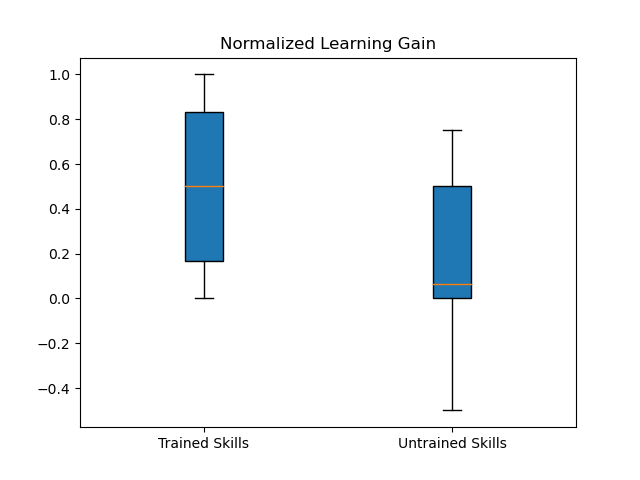
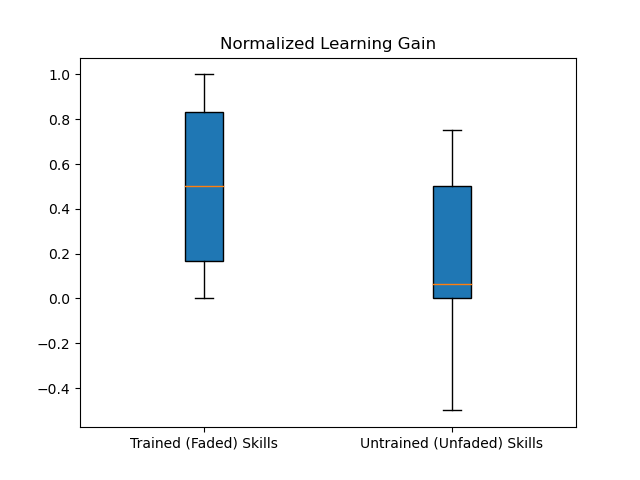
Changed labels of the diagram

Changed region(s): [[0.5625, 0.9062, 0.8438, 0.9375], [0.1875, 0.9062, 0.4375, 0.9375]]

diff --git a/pre_study.py b/pre_study.py
@@ -6,6 +6,7 @@ from util import calculate_cohends_d, render_boxplot, perform_test, plot_pre_pos
 # Exercise 3 : it-network-plan-vlan
 # Exercise 4 : it-network-plan-ipv4-static-routing
 
+
 # Users 1,3,5,7,9,11,13 it-network-plan-ipv4-static-routing
 # Users 2,4,6,8,10,12 it-network-plan-vlan
 def extract_entries(df: pd.DataFrame, was_trained: bool):
@@ -16,20 +17,32 @@ def extract_entries(df: pd.DataFrame, was_trained: bool):
 
     return eq[eq["User"].notna()]
 
+
 def prepare_data():
     data = pd.read_csv("preprocessed/pre_preprocessed.csv")
 
     for student in data["User"].unique():
         # Assuming student is defined
-        df = data.loc[data["User"] == student][["ExerciseSkill","PretestCorrectRel","PosttestCorrectRel"]].groupby("ExerciseSkill").mean()
+        df = (
+            data.loc[data["User"] == student][
+                ["ExerciseSkill", "PretestCorrectRel", "PosttestCorrectRel"]
+            ]
+            .groupby("ExerciseSkill")
+            .mean()
+        )
         df.reset_index(inplace=True)
 
-        plot_pre_post(df=df, filename=f"pre/barplots/scores_{int(student)}", title=f'Scores for User: {int(student)}')
+        plot_pre_post(
+            df=df,
+            filename=f"pre/barplots/scores_{int(student)}",
+            title=f"Scores for User: {int(student)}",
+        )
 
     trained = extract_entries(df=data, was_trained=True)
     not_trained = extract_entries(df=data, was_trained=False)
 
     return trained, not_trained
+
 
 def test_improvement_abs_skill(trained, untrained, is_graph_norm, norm_val=0.05):
     """
@@ -37,19 +50,33 @@ def test_improvement_abs_skill(trained, untrained, is_graph_norm, norm_val=0.05)
     The is_graph_norm is an indicator, if both distributions within the improvement_abs_skills.png file are a normal distribution.
     This decides the statistical test used for evaluation.
     """
-    trained_improvements = trained.groupby(["User", "ExerciseSkill"]).mean()["ImprovementAbsNormalizedScores"].to_numpy()
-    untrained_improvements = untrained.groupby(["User", "ExerciseSkill"]).mean()["ImprovementAbsNormalizedScores"].to_numpy()
+    trained_improvements = (
+        trained.groupby(["User", "ExerciseSkill"])
+        .mean()["ImprovementAbsNormalizedScores"]
+        .to_numpy()
+    )
+    untrained_improvements = (
+        untrained.groupby(["User", "ExerciseSkill"])
+        .mean()["ImprovementAbsNormalizedScores"]
+        .to_numpy()
+    )
 
     t_test_result = perform_test(
         is_related=True,
         a=trained_improvements,
         b=untrained_improvements,
-        a_name="Trained",b_name="Untrained", x_label="Score",
+        a_name="Trained",
+        b_name="Untrained",
+        x_label="Score",
         filename=f"pre/histograms/improvement_abs_skills",
-        is_graph_norm=is_graph_norm, norm_val=norm_val
+        is_graph_norm=is_graph_norm,
+        norm_val=norm_val,
     )
 
-    return t_test_result, calculate_cohends_d(trained_improvements, untrained_improvements)
+    return t_test_result, calculate_cohends_d(
+        trained_improvements, untrained_improvements
+    )
+
 
 def test_improvement_abs_exercise(trained, untrained, is_graph_norm, norm_val=0.05):
     """
@@ -64,14 +91,22 @@ def test_improvement_abs_exercise(trained, untrained, is_graph_norm, norm_val=0.
         is_related=True,
         a=trained_improvements,
         b=untrained_improvements,
-        a_name="Trained",b_name="Untrained", x_label="Score",
+        a_name="Trained",
+        b_name="Untrained",
+        x_label="Score",
         filename=f"pre/histograms/improvement_abs_exercises",
-        is_graph_norm=is_graph_norm, norm_val=norm_val
+        is_graph_norm=is_graph_norm,
+        norm_val=norm_val,
     )
 
-    return t_test_result, calculate_cohends_d(trained_improvements, untrained_improvements)
+    return t_test_result, calculate_cohends_d(
+        trained_improvements, untrained_improvements
+    )
 
-def test_improvement_normalized_change_skill(trained, untrained, is_graph_norm, norm_val=0.05):
+
+def test_improvement_normalized_change_skill(
+    trained, untrained, is_graph_norm, norm_val=0.05
+):
     """
     Function to calculate if, and how significant the learning improvement for the trained **skills** in terms of normalized change was, relative to the untrained skills.
     The is_graph_norm is an indicator, if both distributions within the improvement_normalized_change_skills.png file are a normal distribution.
@@ -87,14 +122,22 @@ def test_improvement_normalized_change_skill(trained, untrained, is_graph_norm, 
         is_related=True,
         a=trained_improvements,
         b=untrained_improvements,
-        a_name="Trained",b_name="Untrained", x_label="Score",
+        a_name="Trained",
+        b_name="Untrained",
+        x_label="Score",
         filename=f"pre/histograms/improvement_normalized_change_skills",
-        is_graph_norm=is_graph_norm, norm_val=norm_val
+        is_graph_norm=is_graph_norm,
+        norm_val=norm_val,
     )
 
-    return t_test_result, calculate_cohends_d(trained_improvements, untrained_improvements)
+    return t_test_result, calculate_cohends_d(
+        trained_improvements, untrained_improvements
+    )
 
-def test_improvement_normalized_change_exercise(trained, untrained, is_graph_norm, norm_val=0.05):
+
+def test_improvement_normalized_change_exercise(
+    trained, untrained, is_graph_norm, norm_val=0.05
+):
     """
     Function to calculate if, and how significant the learning improvement for the trained **exercises** in terms of normalized change was, relative to the untrained exercises.
     The is_graph_norm is an indicator, if both distributions within the improvement_normalized_change_exercises.png file are a normal distribution.
@@ -107,32 +150,71 @@ def test_improvement_normalized_change_exercise(trained, untrained, is_graph_nor
         is_related=True,
         a=trained_improvements,
         b=untrained_improvements,
-        a_name="Trained",b_name="Untrained", x_label="Score",
+        a_name="Trained",
+        b_name="Untrained",
+        x_label="Score",
         filename=f"pre/histograms/improvement_normalized_change_exercises",
-        is_graph_norm=is_graph_norm, norm_val=norm_val
+        is_graph_norm=is_graph_norm,
+        norm_val=norm_val,
     )
 
-    return t_test_result, calculate_cohends_d(trained_improvements, untrained_improvements)
+    return t_test_result, calculate_cohends_d(
+        trained_improvements, untrained_improvements
+    )
+
 
 trained, untrained = prepare_data()
 
-improv_t_res, improv_cohens = test_improvement_abs_skill(trained, untrained, is_graph_norm=False, norm_val=0.05)
-improv_exercise_t_res, improv_exercise_cohens = test_improvement_abs_exercise(trained, untrained, is_graph_norm=True, norm_val=0.05)
-normalized_t_res, normalized_cohens = test_improvement_normalized_change_skill(trained, untrained, is_graph_norm=True, norm_val=0.05)
-normalized_exercise_t_res, normalized_exercise_cohens = test_improvement_normalized_change_exercise(trained, untrained, is_graph_norm=False, norm_val=0.05)
+improv_t_res, improv_cohens = test_improvement_abs_skill(
+    trained, untrained, is_graph_norm=False, norm_val=0.05
+)
+improv_exercise_t_res, improv_exercise_cohens = test_improvement_abs_exercise(
+    trained, untrained, is_graph_norm=True, norm_val=0.05
+)
+normalized_t_res, normalized_cohens = test_improvement_normalized_change_skill(
+    trained, untrained, is_graph_norm=True, norm_val=0.05
+)
+(
+    normalized_exercise_t_res,
+    normalized_exercise_cohens,
+) = test_improvement_normalized_change_exercise(
+    trained, untrained, is_graph_norm=False, norm_val=0.05
+)
 
-data = pd.DataFrame({
-    'type' : ["improvement_abs_skill", "improvement_abs_exercise", "normalized_change_skill", "normalized_change_exercise"], 
-    't' : [improv_t_res.statistic, improv_exercise_t_res.statistic, normalized_t_res.statistic, normalized_exercise_t_res.statistic],
-    'p': [improv_t_res.pvalue, improv_exercise_t_res.pvalue, normalized_t_res.pvalue, normalized_exercise_t_res.pvalue],
-    'cohens': [improv_cohens, improv_exercise_cohens, normalized_cohens, normalized_exercise_cohens]
-})
+data = pd.DataFrame(
+    {
+        "type": [
+            "improvement_abs_skill",
+            "improvement_abs_exercise",
+            "normalized_change_skill",
+            "normalized_change_exercise",
+        ],
+        "t": [
+            improv_t_res.statistic,
+            improv_exercise_t_res.statistic,
+            normalized_t_res.statistic,
+            normalized_exercise_t_res.statistic,
+        ],
+        "p": [
+            improv_t_res.pvalue,
+            improv_exercise_t_res.pvalue,
+            normalized_t_res.pvalue,
+            normalized_exercise_t_res.pvalue,
+        ],
+        "cohens": [
+            improv_cohens,
+            improv_exercise_cohens,
+            normalized_cohens,
+            normalized_exercise_cohens,
+        ],
+    }
+)
 data.to_csv(f"results/pre_evaluation.csv", index=None)
 
 render_boxplot(
     trained.groupby(["User", "ExerciseSkill"]).mean()["NormalizedChange"],
     untrained.groupby(["User", "ExerciseSkill"]).mean()["NormalizedChange"],
     "pre/boxplot_normalized_change",
-    ["Trained Skills", "Untrained Skills"],
-    title="Normalized Learning Gain"
+    ["Trained (Faded) Skills", "Untrained (Unfaded) Skills"],
+    title="Normalized Learning Gain",
 )
